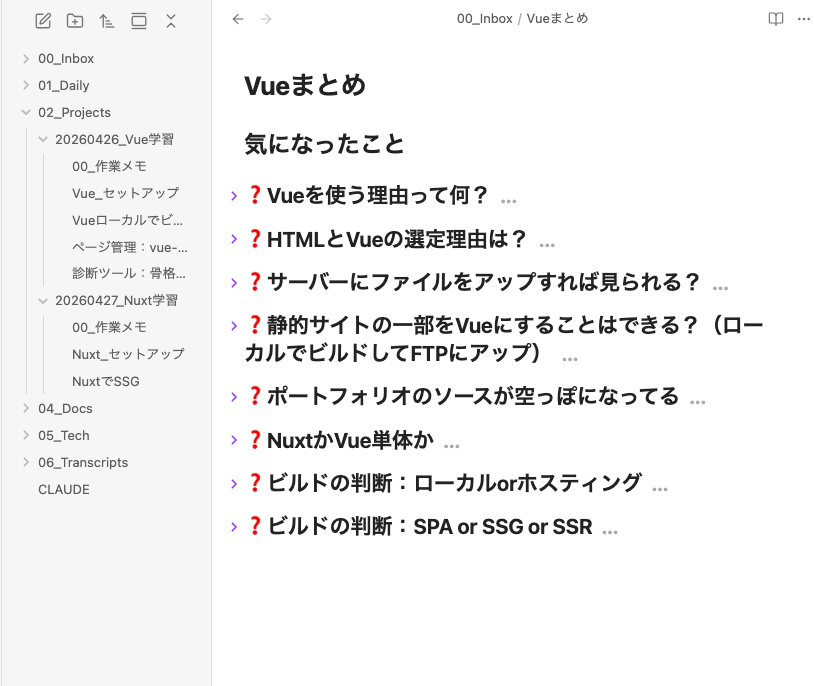
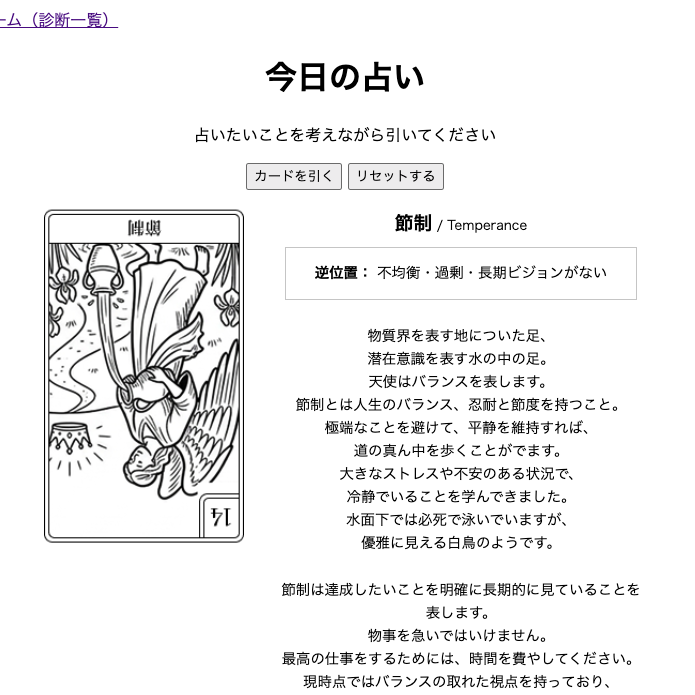
v-html調整途中

diff --git a/0_portfolio_v02_vite/src/data/works.js b/0_portfolio_v02_vite/src/data/works.js
@@ -25,6 +25,9 @@ export const works = [
     impressions: [
     '＊',
     ],
+    message_html: [
+    '＊',
+    ],
   },
   */
   {
@@ -39,19 +42,12 @@ export const works = [
     image3: 'img/work/2026_vue3.png',
     effort: '',
     overview: 'Web制作でのVue実装について学習をしています。',
-    url: 'https://rmrmrmrmrmrm.github.io/20260426_Vue/hoge/#/body',
+    url: 'https://rmrmrmrmrmrm.github.io/20260426_Vue/hoge/',
     stack: '【フロントエンド】Vue / Vite【バージョン管理】GitHub【ホスティング】GitHub Pages【AI】Cursor / Gemini',
     impressions: [
-      '・Web制作での利用シーンについて',
-      '・Web制作の場合、ビルド・サーバーアップはどのように行うのか',
-      '・既存静的サイト内にVueコンテンツを追加することはできるか',
-      '・Nuxtを使うメリットは？',
-      '・SPA or SSG or SSR の特徴と作業の違い',
-      '・SEOリスク対策について',
-      '・ルーティングの設定、ビルドのやり方',
-      '・診断コンテンツのロジックの考え方や実装について',
-      '・Pages > GitHub Actionsでの自動ビルド設定',
-      'など',
+    ],
+    message_html: [
+      '<b>作ったもの</b><br><a href="https://rmrmrmrmrmrm.github.io/20260426_Vue/hoge/#/body" target="_blank" rel="noopener">骨格診断</a>：心理テスト形式の診断コンテンツです<br><a href="https://rmrmrmrmrmrm.github.io/20260426_Vue/hoge/#/shoes" target="_blank" rel="noopener">靴サイズ</a>：足長と足囲の計測から商品を検索できるツールです<br><a href="https://rmrmrmrmrmrm.github.io/20260426_Vue/hoge/#/fortune" target="_blank" rel="noopener">今日の占い</a>：タロット占い(ワンオラクル)ができます<br><br><b>勉強になったこと</b><br>・Web制作での利用シーンについて<br>・Web制作の場合、ビルド・サーバーアップはどのように行うのか<br>・既存静的サイト内にVueコンテンツを追加することはできるか<br>・Nuxtを使うメリットは？<br>・SPA or SSG or SSR の特徴と作業の違い<br>・SEOリスク対策について<br>・ルーティングの設定、ビルドのやり方<br>・診断コンテンツのロジックの考え方や実装について<br>・Pages > GitHub Actionsでの自動ビルド設定<br>など<br>',
     ],
   },
   {

diff --git a/0_portfolio_v02_vite/src/views/WorkDetailView.vue b/0_portfolio_v02_vite/src/views/WorkDetailView.vue
@@ -58,35 +58,17 @@ const impressionParagraphs = computed(
     <div class="detail-figure-box">
       <figure v-if="work.image && imageSrc" class="detail-figure">
         <a :href="imageSrc" target="_blank" rel="noopener noreferrer">
-        <img
-          class="detail-figure__img"
-          :src="imageSrc"
-          :alt="`${work.title}`"
-          loading="lazy"
-          decoding="async"
-        />
+          <img class="detail-figure__img" :src="imageSrc" :alt="`${work.title}`" loading="lazy" decoding="async" />
         </a>
       </figure>
       <figure v-if="work.image2 && imageSrc2" class="detail-figure">
         <a :href="imageSrc2" target="_blank" rel="noopener noreferrer">
-        <img
-          class="detail-figure__img"
-          :src="imageSrc2"
-          :alt="`${work.title}`"
-          loading="lazy"
-          decoding="async"
-        />
+          <img class="detail-figure__img" :src="imageSrc2" :alt="`${work.title}`" loading="lazy" decoding="async" />
         </a>
       </figure>
       <figure v-if="work.image3 && imageSrc3" class="detail-figure">
         <a :href="imageSrc3" target="_blank" rel="noopener noreferrer">
-        <img
-          class="detail-figure__img"
-          :src="imageSrc3"
-          :alt="`${work.title}`"
-          loading="lazy"
-          decoding="async"
-        />
+          <img class="detail-figure__img" :src="imageSrc3" :alt="`${work.title}`" loading="lazy" decoding="async" />
         </a>
       </figure>
     </div><!-- /detail-figure-box -->
@@ -115,6 +97,10 @@ const impressionParagraphs = computed(
       <div class="detail-body">
         <p v-for="(paragraph, i) in impressionParagraphs" :key="i">{{ paragraph }}</p>
       </div>
+    </section>
+    <section v-if="work.message_html" class="detail-section">
+      <h2 class="detail-section__ttl">感想</h2>
+      <p v-html="work.message_html"></p>
     </section>
     <p class="back">
       <RouterLink to="/works" class="inline-link">← 実績一覧へ</RouterLink>
